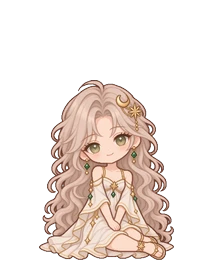
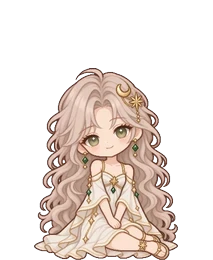
Add files via upload

Changed region(s): [[0.1408, 0.2462, 0.8451, 1.0]]

diff --git a/eu.css b/eu.css
@@ -207,9 +207,9 @@ html.eu-en .eu .crm dl{grid-template-columns:7em minmax(0,1fr)}
 .eu-wk .fr img{position:absolute;inset:0;width:100%;height:100%;opacity:0;pointer-events:none;-webkit-user-drag:none;user-select:none}
 .eu-wk .fr img.on{opacity:1}
 .eu-wk.flip .fr{transform:scaleX(-1)}
-.eu-wk.walking .bob{animation:eu-mebob .42s ease-in-out infinite}
+.eu-wk.walking .bob{animation:eu-mebob .52s steps(1) infinite}
 .eu-wk .bob{position:absolute;inset:0}
-@keyframes eu-mebob{0%,100%{transform:translateY(0)}50%{transform:translateY(-3px)}}
+@keyframes eu-mebob{0%,100%{transform:none}50%{transform:translateY(-2px)}}
 .eu-wk.hop .bob{transform-origin:50% 100%;animation:eu-mehop .55s ease-out}
 @keyframes eu-mehop{0%{transform:scale(1,1)}18%{transform:scale(1.14,.8)}40%{transform:scale(.92,1.1)}58%{transform:scale(1.05,.95)}76%{transform:scale(.98,1.02)}100%{transform:scale(1,1)}}
 .eu-wk .say{position:absolute;left:50%;bottom:100%;margin-bottom:8px;transform:translateX(-50%) scale(.6);opacity:0;white-space:nowrap;background:#3d2a22;color:#fff6e6;border:3px solid #f2d3ae;outline:3px solid #6e5444;border-radius:6px;padding:6px 22px 6px 14px;font:14px/1.5 'Cubic11',"Noto Sans TC",sans-serif;box-shadow:4px 5px 0 3px rgba(110,84,68,.25);transition:transform .2s,opacity .2s;pointer-events:none}
